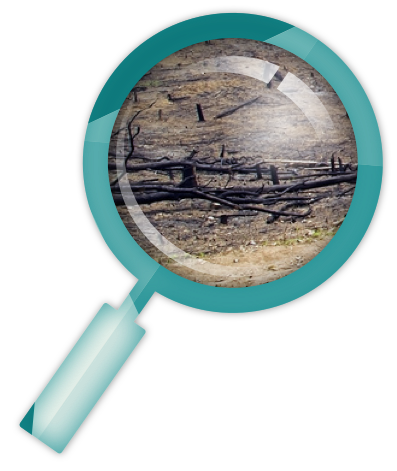
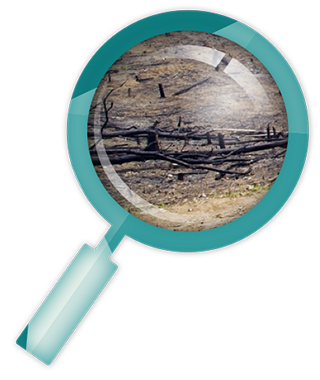
msa

diff --git a/_sass/design/issues.scss b/_sass/design/issues.scss
@@ -43,6 +43,7 @@ a.arrows-down, a:visited.arrows-down {
   color:$off-white;
   @include gs-span(l,all);
   .inner {
+    background:$grey90;
     background: rgba($grey90, .8);
     border:1px solid $grey90;
     @include box-shadow(0px 0px 5px 0px rgba(0,0,0,0.4));
@@ -80,6 +81,14 @@ a.arrows-down, a:visited.arrows-down {
   &.deforestation {
     background: url(#{$img-path}deforestation-back.jpg) center center no-repeat;
     background-size:cover;
+  }
+  &.msa {
+    background: url(#{$img-path}msa-back.jpg) center center no-repeat;
+    background-size:cover;
+    .inner:after {
+      background:url(#{$img-path}msa-glass.png) center top no-repeat;
+      background-size:contain;
+    }
   }
 }
 
@@ -134,7 +143,7 @@ a.arrows-down, a:visited.arrows-down {
   position:relative;
 
 
-  &:before, &:after { // decorative logo
+  &:before, &:after { // decorative logos
     content:"";
     display:block;
     background:url(#{$img-path}s3-decorative.png) center top no-repeat;
@@ -190,6 +199,18 @@ a.arrows-down, a:visited.arrows-down {
       bottom:-100px;
     }
   }
+  .solution {
+    &:before, &:after {
+      width:200px;
+    }
+    &:before {
+      left:-100px;
+    }
+    &:after {
+      right:-100px;
+    }
+  }
+
 }
 
 
@@ -202,17 +223,28 @@ a.arrows-down, a:visited.arrows-down {
     @include gs-pad(s,padinfull);
     .inner {
       @include gs-span(s,all);
+      .register-button {
+        @include gs-span(s,all);
+      }
+      .register-text {
+        @include gs-span(s,all);
+
+      }
     }
   }
   .issue-top-section .inner {
-    @include padding-left($a-scale-2);
-    @include padding-right($a-scale-2);
+    padding-left: 10%;
+    padding-right:10%;
+    .strap {
+      padding-left:0;
+      padding-right: 0;
+    }
     &:after {
       width:200px;
       padding-bottom:250px;
-      right:-70px;
+      right:-90px;
       top:auto;
-      bottom:-100px;
+      bottom:-130px;
     }
   }
   .solution {

diff --git a/_layouts/issue.html b/_layouts/issue.html
@@ -1,7 +1,7 @@
 ---
 layout: default
 ---
-<div class="issue-top-section deforestation">
+<div class="issue-top-section {{ page.class }}">
   <div class="inner">
     <h1>{{ page.title }}</h1>
     <p class="strap">{{ page.strap }}</p>
